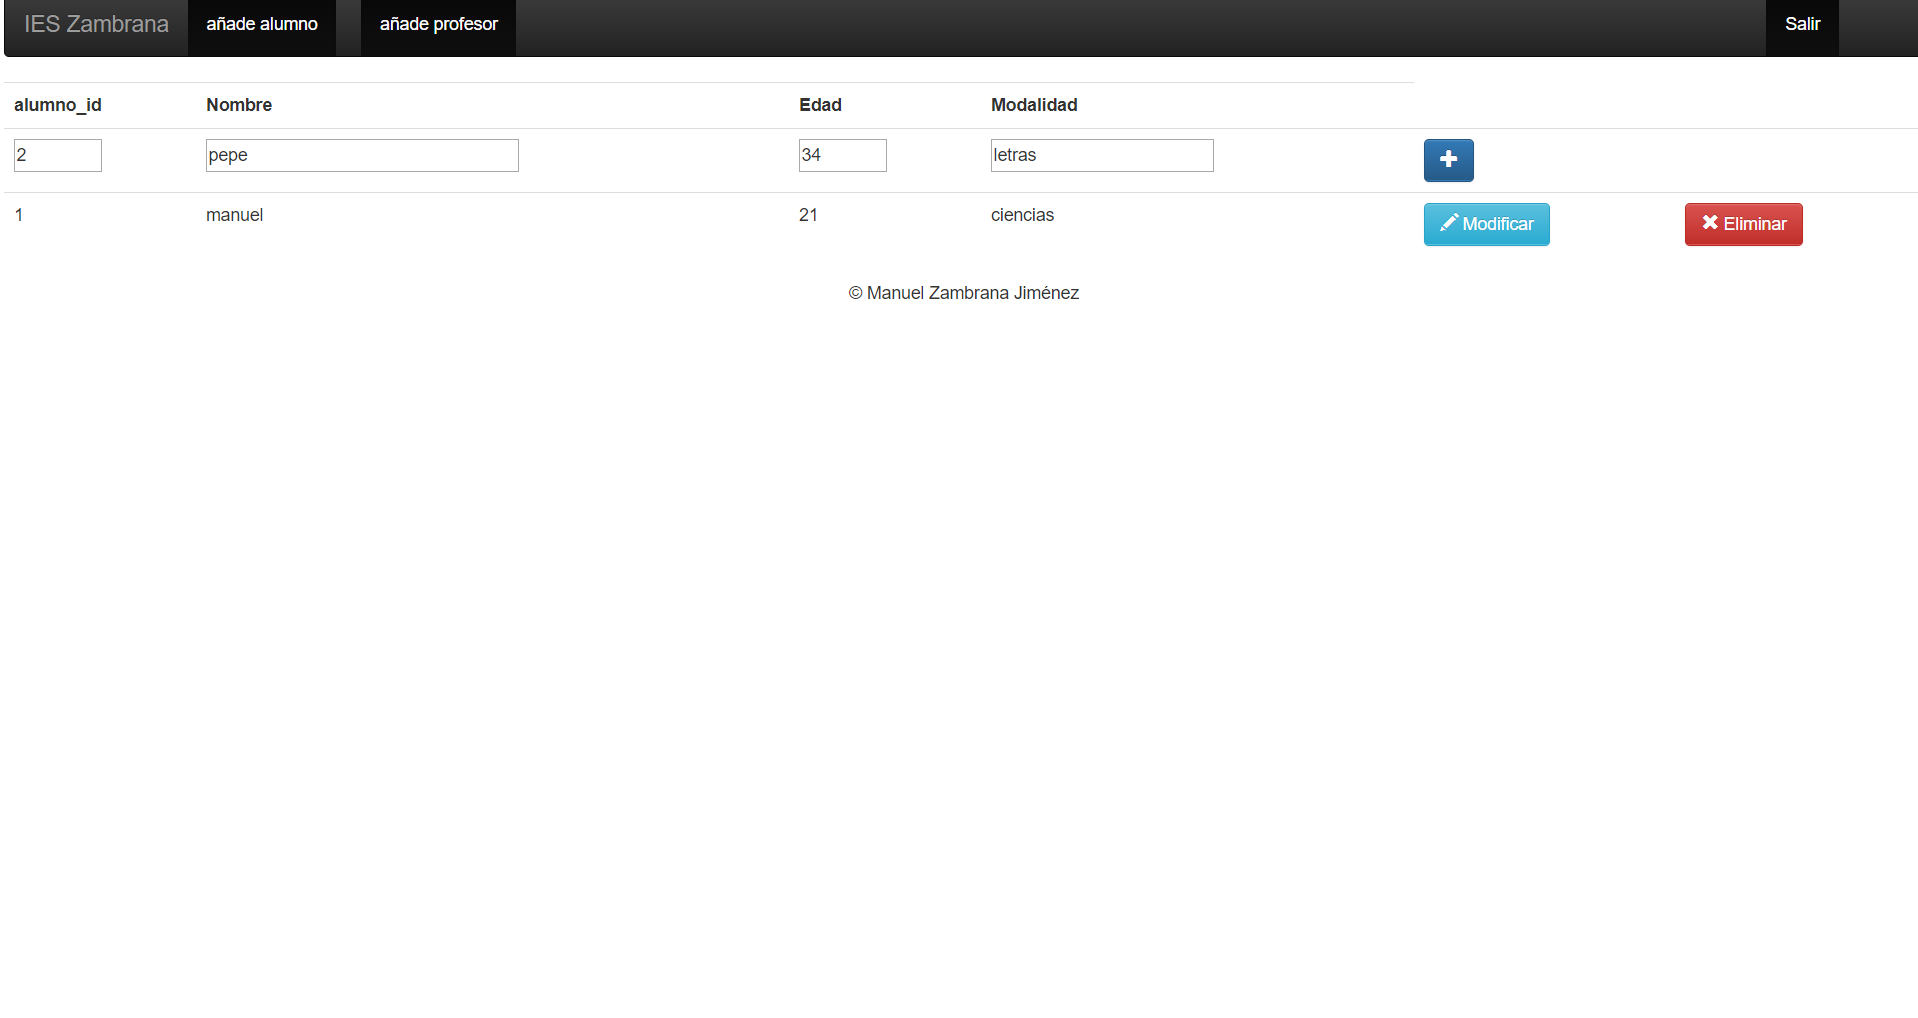
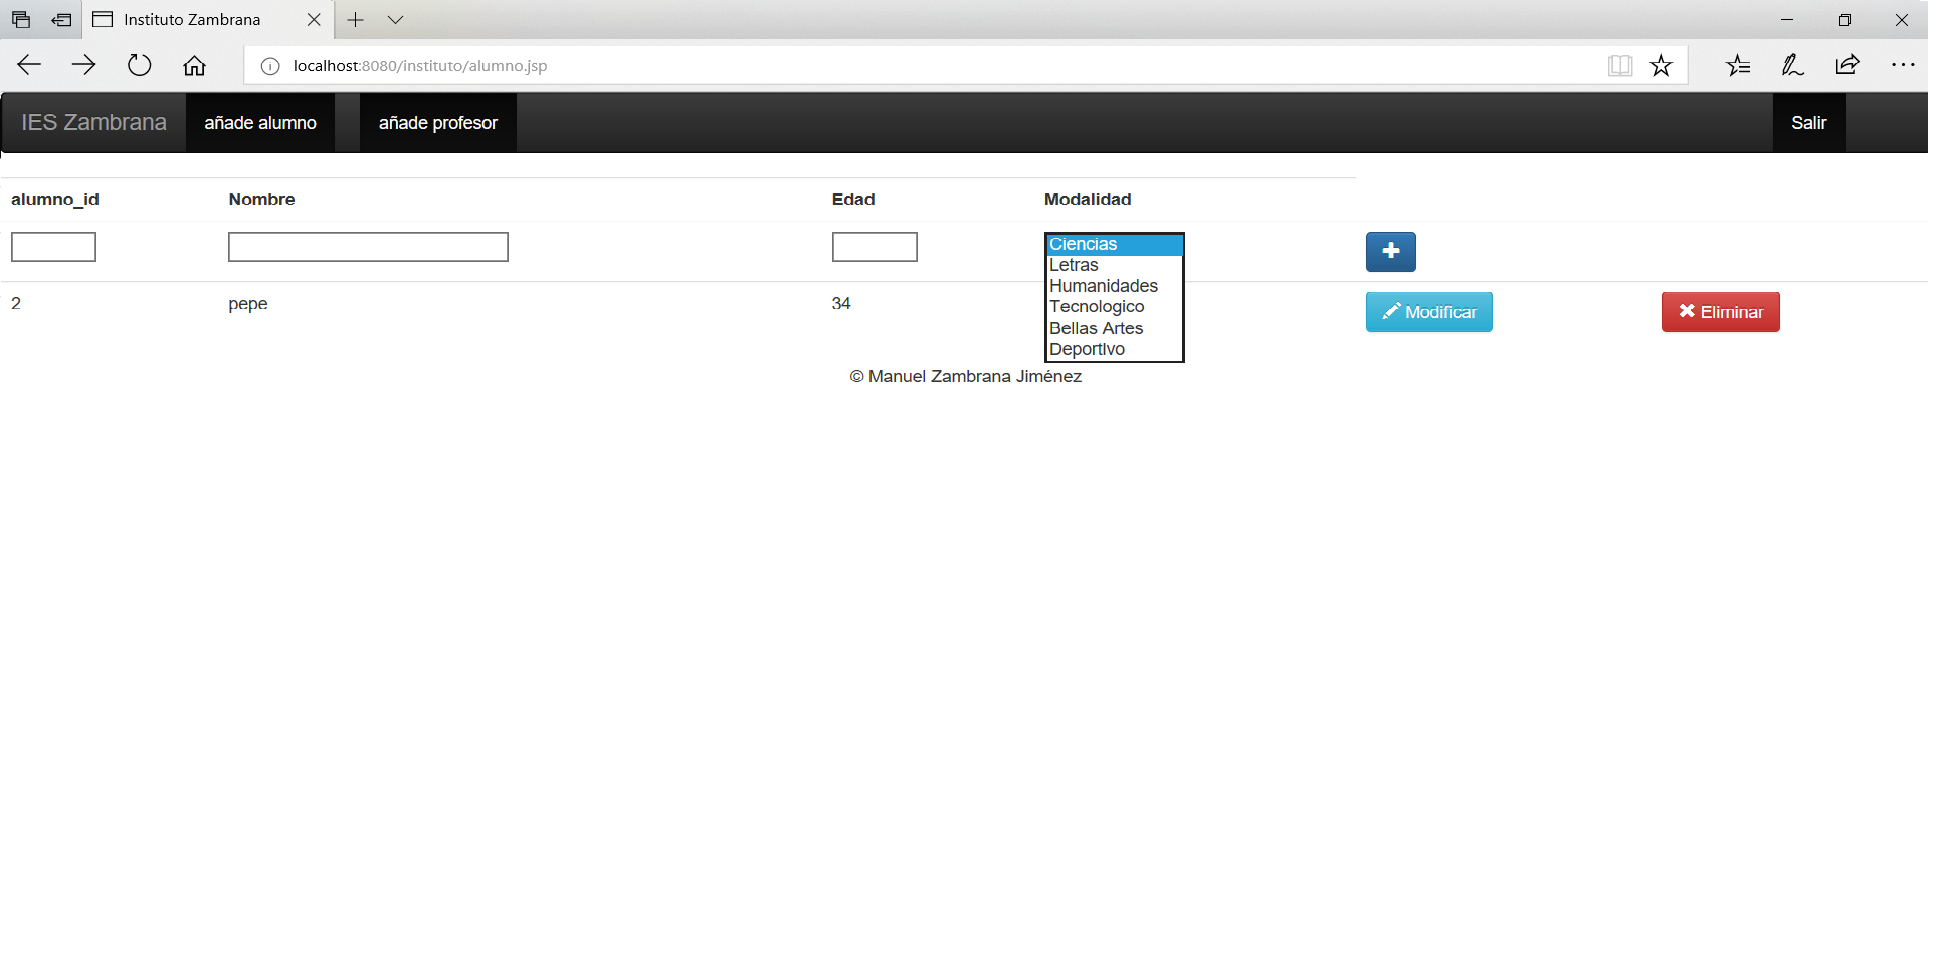
Subiendo Crud

diff --git a/README.md b/README.md
@@ -3,8 +3,8 @@
 Este ejercicio consistirá en un CRUD sobre los datos de un instituto, donde tendremos tablas como: Alumnos, Profesores, asiganturas,material etc...
 
 
-El inicio sesión del crud costa de un E-mail y contraseña para poder entrar
-(Vale cualquiera ya que no hay registro de usuario)
+El inicio sesión del crud costa de un Usuario y contraseña para poder entrar
+(Gracias a un hashmap podemos entrar con: usuario,usuario root,root y admin,admin)
 
 <img src="imagenes/inicioSesion.png" width="700px">
 
@@ -15,6 +15,7 @@ Aquí podremos ver una barra de navegación también
 
 
 En añade alumnos podremos entrar a una pestaña para poder añadir alumnos
+y podemos observar el array list para elegir una modalidad
 <img src="imagenes/alumno.png" width="700px">
 
 Eliminar (como el alumno con id 1)
